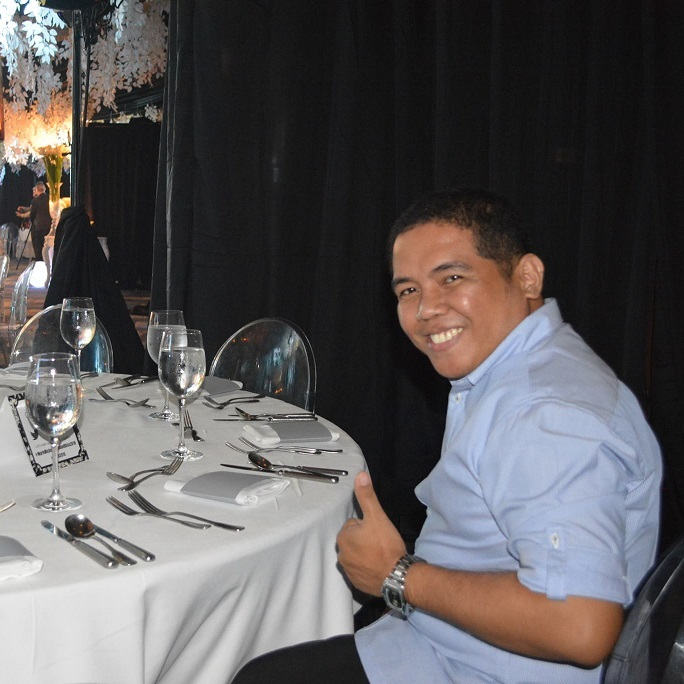
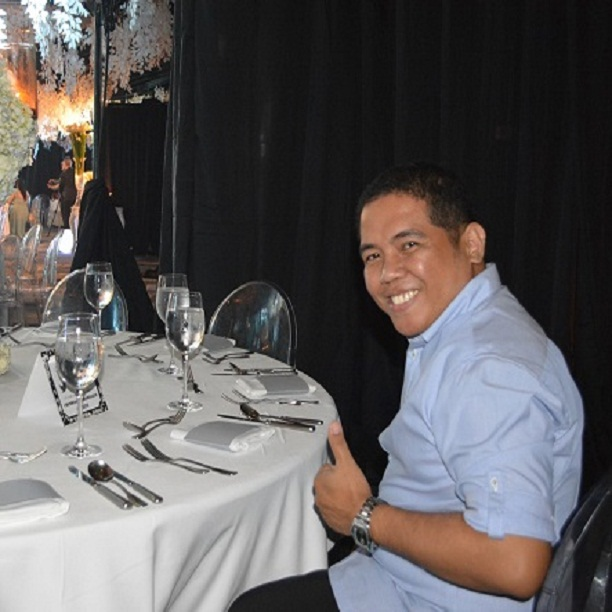
updated team photos

diff --git a/index.html b/index.html
@@ -581,7 +581,7 @@
 				</li>
 				<li class="col-sm-3 col-xs-6">
 					<div class="team-img">
-						<img class="img-responsive" src="assets/img/team/img1-md.jpg" alt="">
+						<img class="img-responsive" src="assets/img/team/seth.jpg" alt="">
 						<ul>
 							<li><a href="https://www.twitter.com/sethjuriste" target="_blank"><i class="icon-custom icon-sm rounded-x fa fa-twitter"></i></a></li>
 							<li><a href="https://www.facebook.com/sethjuriste" target="_blank"><i class="icon-custom icon-sm rounded-x fa fa-facebook"></i></a></li>
